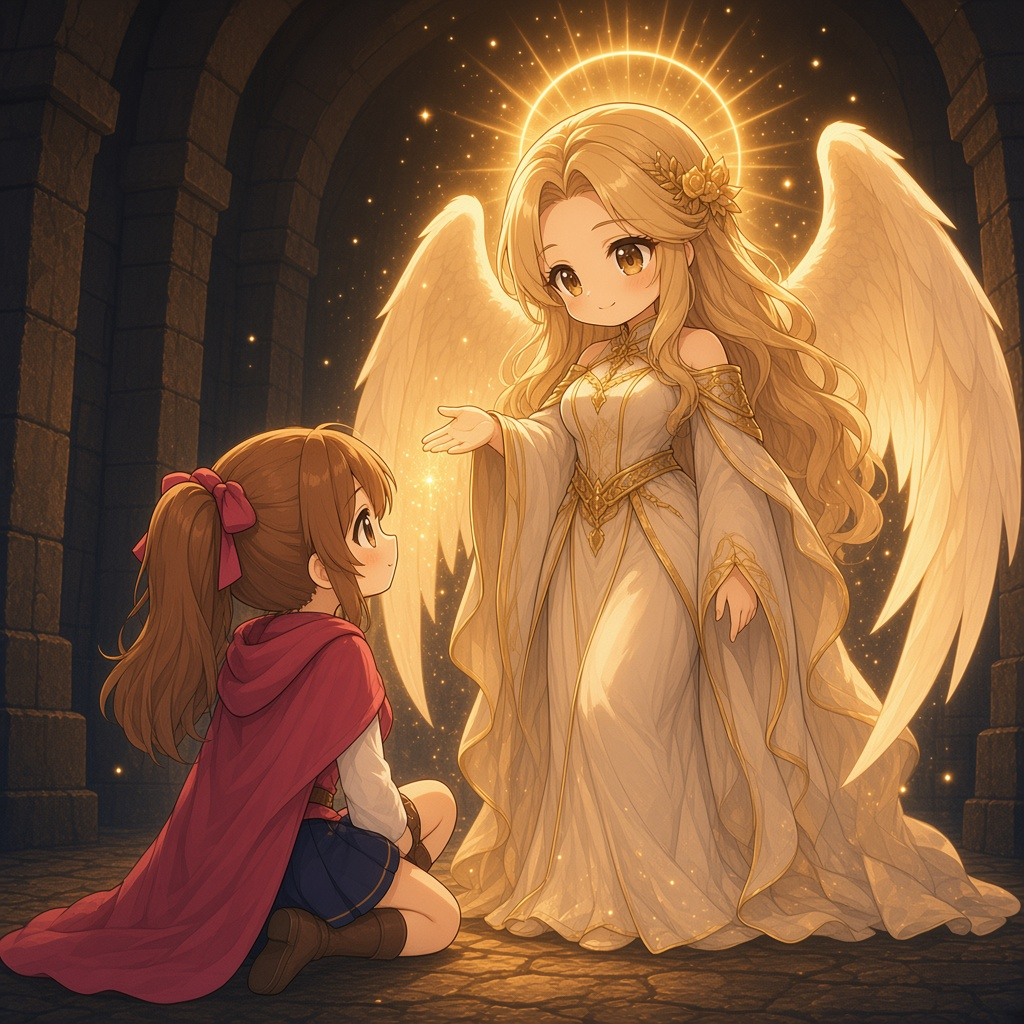
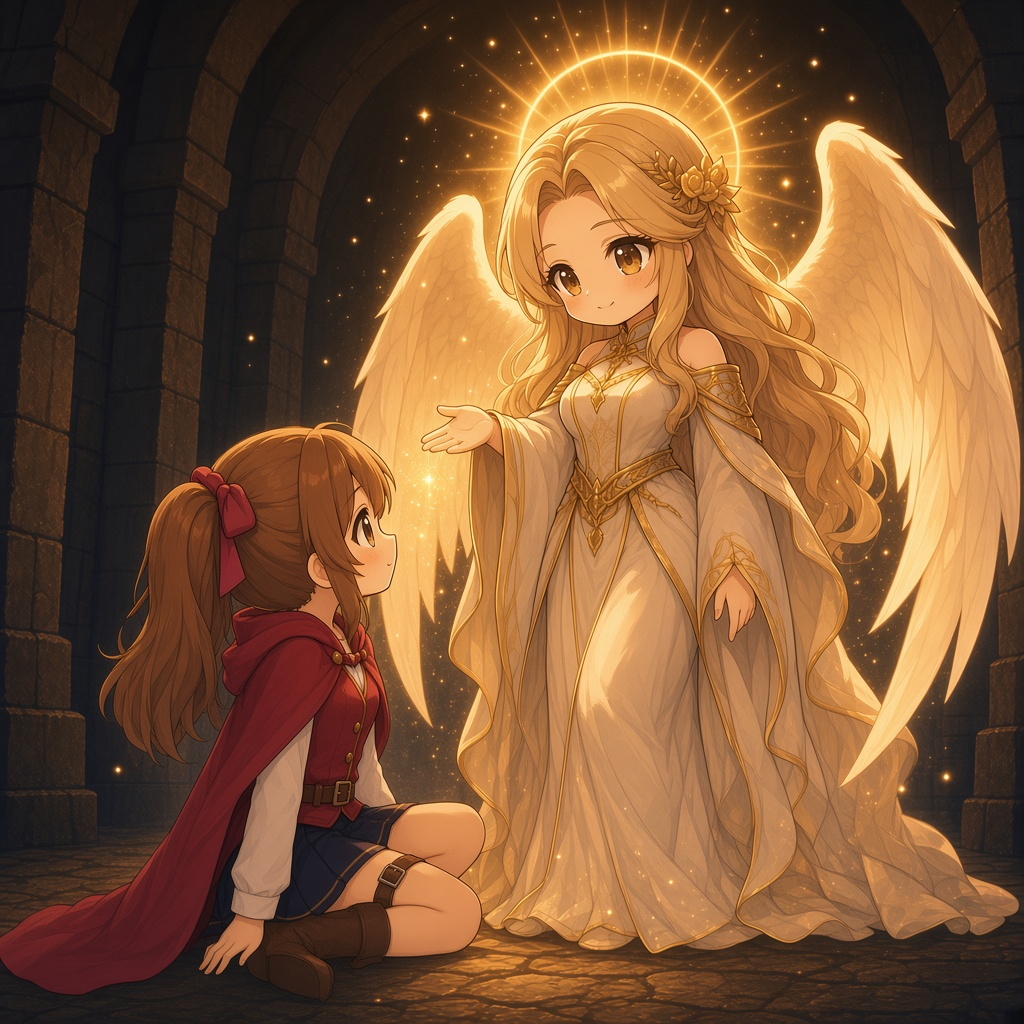
Redraw the blessing path so the warrior's clothes stay crimson.

diff --git a/index.html b/index.html
@@ -6669,7 +6669,7 @@
 
     function roadFace(node) {
       const name = String(node || "");
-      if (name === "出来事:祝福") return { src: "path-bless.jpg?v=1", label: "祝福" };
+      if (name === "出来事:祝福") return { src: "path-bless.jpg?v=2", label: "祝福" };
       if (name === "出来事:探索") return { src: "path-search.jpg?v=7", label: "探索" };
       if (name === "出来事:未知") return { src: "path-unknown.jpg?v=5", label: "遭遇" };
       if (name === "出来事:キャンプ") return { src: "path-rest.jpg?v=3", label: "休憩" };
@@ -10045,7 +10045,7 @@
             <p class="album-meta">道を選ぶときの候補アイコン。戦闘は赤枠。道システムの画面実装はこれから</p>
             <div class="ref-grid">
               ${sheetFig("path-search.jpg?v=7", "探索")}
-              ${sheetFig("path-bless.jpg?v=1", "祝福")}
+              ${sheetFig("path-bless.jpg?v=2", "祝福")}
               ${sheetFig("path-fight.jpg?v=5", "戦闘", "", "path-series")}
               ${sheetFig("path-beggar.jpg?v=4", "物乞い")}
               ${sheetFig("path-shop.jpg?v=6", "お店")}
